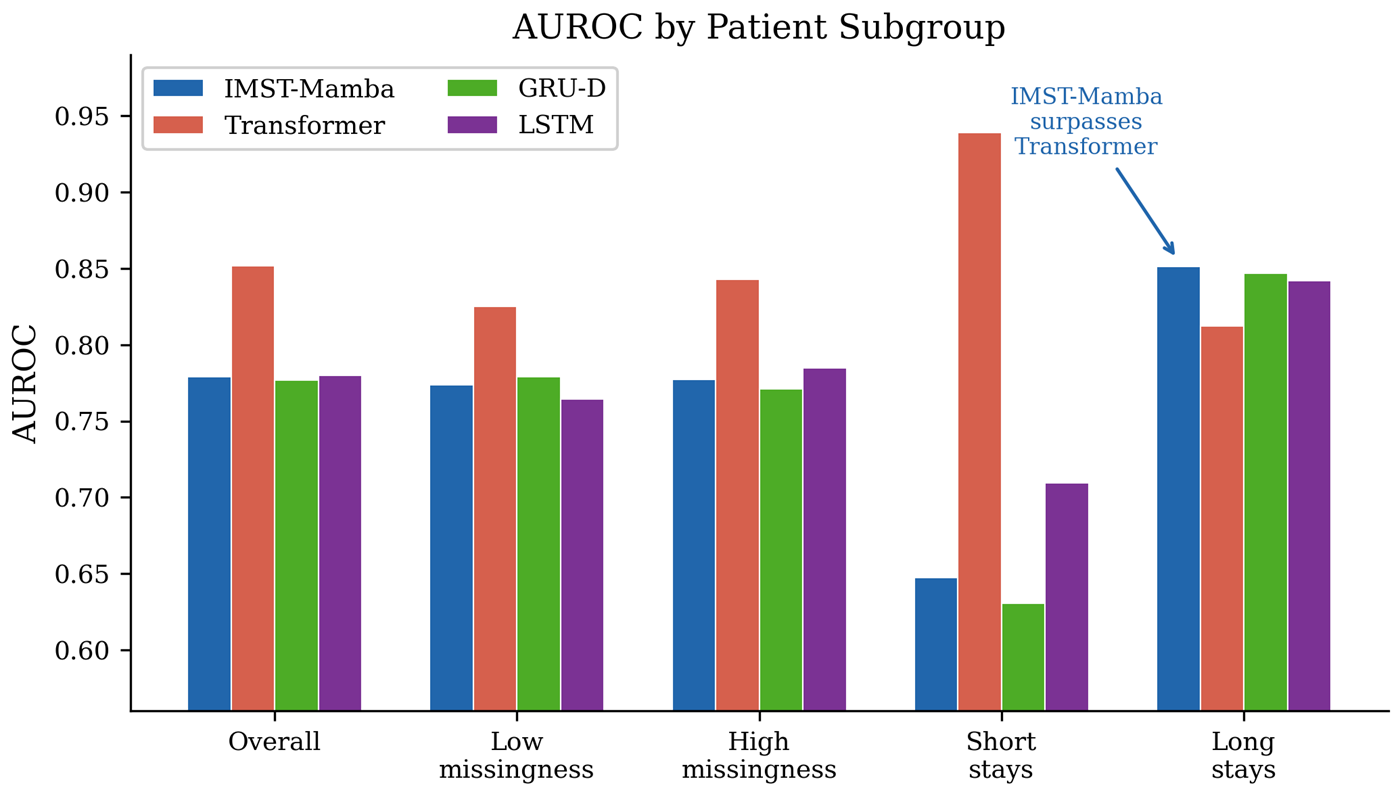
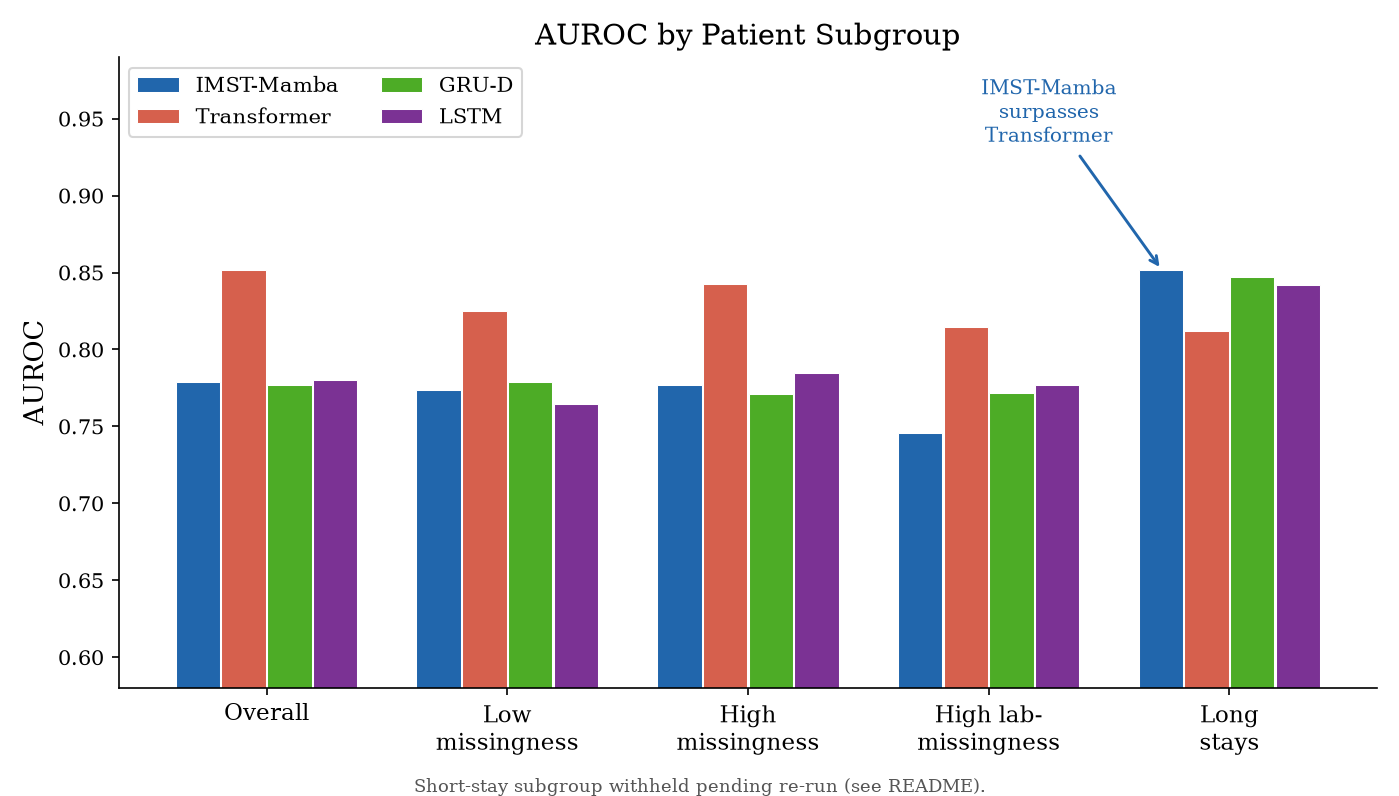
Fix portfolio claims that disagree with the repos
- IMST-Mamba: drop short-stay bars/numbers; the repo README withholds them
  because the draft table duplicated the First 6h row. Regenerate the figure
  from the README's confirmed subgroup values.
- Algo Pipeline: replace stale PR #7 CI-failure text with current state and
  list the hardening PRs merged since.

diff --git a/project-algo.html b/project-algo.html
@@ -60,7 +60,7 @@
 
       <section class="case-section"><span class="label">Output</span><div><h2>파이프라인이 실제로 만들어낸 결과물입니다.</h2><p>아래 두 장은 2026-09-15 실행에서 생성된 실제 카드뉴스입니다. 원문 기사를 수집해 주제를 잡고, 각 Claim을 근거에 연결한 뒤 렌더링까지 자동으로 수행했습니다.</p><div class="algo-output-grid"><figure class="case-shot"><img src="assets/algo/algo-card-cover.jpg?v=1" width="720" height="900" class="zoomable-image" loading="lazy" decoding="async" alt="Algo Pipeline이 생성한 카드뉴스 커버. 제목 &quot;AI 속도 조절, 협약인가&quot;와 발행일 2026.09.15가 표시된 실제 출력물" tabindex="0" role="button" aria-label="Algo Pipeline이 생성한 카드뉴스 커버 확대 보기"><figcaption><span>01 / 수집된 원문 → 생성된 커버</span><strong>Generated</strong></figcaption></figure><figure class="case-shot"><img src="assets/algo/algo-card-evidence.png?v=1" width="720" height="900" class="zoomable-image" loading="lazy" decoding="async" alt="Algo Pipeline이 생성한 콘텐츠 카드. &quot;근거로 확인된 내용&quot; 라벨 아래 검증된 Claim이 표시된 실제 출력물" tabindex="0" role="button" aria-label="Algo Pipeline이 생성한 콘텐츠 카드 확대 보기"><figcaption><span>02 / Claim → 근거로 확인된 내용</span><strong>Fact-checked</strong></figcaption></figure></div><div class="case-note"><strong>이 실행의 기록.</strong> 원문은 The Verge <i>“Is Big Tech’s AI slowdown a safety pact or a cartel?”</i>이며, <code>fact_confirmed 4 · disputed 0 · unverifiable 0</code>, <code>source_lineage_sha256</code> 기록, <code>publish_requested=false</code>로 남았습니다. 생성은 성공했지만 자동 게시는 기본 OFF 경계에서 멈춘 상태입니다.</div></div></section>
 
-      <section class="case-section"><span class="label">Active experiment</span><div><h2>다음 단계는 생성량이 아니라 실제 완성도입니다.</h2><p>PR #7은 Draft에서 Ready for review로 전환됐고, 범위도 표지 문구·CTA 톤·영상 배경(Pexels) 로딩·무영상 카드 정렬·ffmpeg 안정성·의존성 충돌 해결까지 카드뉴스 실사용 품질 전반으로 넓어졌습니다.</p><div class="case-note">아직 main에 병합되지 않았습니다. 현재 CI는 401개 테스트 중 1개(격리 Queue DB 픽스처 누락으로 인한 <code>no such table: queue</code>)에서 실패 중이며, 이 회귀를 먼저 해결한 뒤 병합 여부를 판단합니다.</div><div class="case-links"><a class="text-link" href="https://github.com/YunhuPark/algo-pipeline/pull/7" target="_blank" rel="noopener noreferrer">PR #7 ↗</a></div></div></section>
+      <section class="case-section"><span class="label">Active experiment</span><div><h2>다음 단계는 생성량이 아니라 실제 완성도입니다.</h2><p>PR #7은 Ready for review 상태이며, 표지 문구·CTA 톤·영상 배경(Pexels) 로딩·무영상 카드 정렬·ffmpeg 안정성·의존성 충돌 해결까지 카드뉴스 실사용 품질 전반을 다룹니다. 마지막 CI(2026-09-28)는 통과했고, 아직 main에 병합되지 않았습니다.</p><p>그 사이 main에는 운영 경계를 우회하던 경로를 막는 수정이 계속 병합됐습니다. <code>--threads</code> 모드가 Queue V2와 사람 승인을 우회하던 문제(#12), 주제 출처 가드의 우회 경로(#10), DevOrch 보호 경로 지정(#13), 시작 시 import 순서 오류·테스트 DB 분기·일시적 네트워크 오류 재시도 수정(#14–#17)입니다.</p><div class="case-links"><a class="text-link" href="https://github.com/YunhuPark/algo-pipeline/pull/7" target="_blank" rel="noopener noreferrer">PR #7 ↗</a></div></div></section>
 
       <section class="case-section"><span class="label">Learning</span><div><h2>프롬프트보다 실패를 통제하는 구조가 먼저였습니다.</h2><p>LLM 서비스의 신뢰성은 좋은 프롬프트 하나보다 출처 lineage, 검증 단계, 사람 승인, 재시도 정책과 관측 가능한 상태 전이에서 결정된다는 점을 구현으로 확인했습니다.</p><div class="case-links"><a class="text-link" href="https://algo-site-hazel.vercel.app" target="_blank" rel="noopener noreferrer">Reliability Console ↗</a><a class="text-link" href="https://github.com/YunhuPark/algo-pipeline" target="_blank" rel="noopener noreferrer">GitHub repository ↗</a></div></div></section>
     </section>

diff --git a/project-imst-mamba.html b/project-imst-mamba.html
@@ -110,8 +110,8 @@
             <article><small>Long-stay / IMST-Mamba</small><strong>0.8514</strong><p>복잡한 결측 패턴이 있는 하위집단에서 더 높은 결과를 보였습니다.</p></article>
           </div>
           <p>전체 집단에서는 Transformer가 더 높은 AUROC를 기록했지만 장기 입원 환자 하위집단에서는 IMST-Mamba가 더 높았습니다. 이를 보편적인 모델 우위로 과장하지 않고 특정 결측 패턴을 가진 집단에서의 가능성으로 제한했습니다.</p>
-          <figure class="case-shot case-shot-wide"><div class="shot-scroll"><img src="assets/imst/imst-subgroup-auroc.png?v=1" width="1400" height="796" class="zoomable-image" loading="lazy" decoding="async" alt="하위집단별 AUROC 막대그래프. Overall에서는 Transformer 0.85가 IMST-Mamba 0.78보다 높고, Long stays에서는 IMST-Mamba 0.85가 Transformer 0.81보다 높음. Short stays에서는 IMST-Mamba가 가장 낮음" tabindex="0" role="button" aria-label="하위집단별 AUROC 비교 그래프 확대 보기"></div><figcaption><span>Subgroup AUROC · IMST-Mamba vs Transformer · GRU-D · LSTM</span><strong>Long stays only</strong></figcaption></figure>
-          <div class="case-note"><strong>불리한 결과도 함께 둡니다.</strong> Short-stay 하위집단에서는 IMST-Mamba가 0.647로 Transformer 0.939보다 크게 낮습니다. 결측 이력이 짧아 staleness 신호가 거의 없는 구간에서는 이 설계가 오히려 불리하다는 뜻이며, 그래프에서 가리지 않았습니다.</div>
+          <figure class="case-shot case-shot-wide"><div class="shot-scroll"><img src="assets/imst/imst-subgroup-auroc.png?v=2" width="1400" height="796" class="zoomable-image" loading="lazy" decoding="async" alt="하위집단별 AUROC 막대그래프. Overall에서는 Transformer 0.85가 IMST-Mamba 0.78보다 높고, 결측이 적거나 많은 하위집단에서도 Transformer가 더 높음. Long stays에서만 IMST-Mamba 0.85가 Transformer 0.81보다 높음. Short stays는 재실행 전이라 제외" tabindex="0" role="button" aria-label="하위집단별 AUROC 비교 그래프 확대 보기"></div><figcaption><span>Subgroup AUROC · IMST-Mamba vs Transformer · GRU-D · LSTM</span><strong>Long stays only</strong></figcaption></figure>
+          <div class="case-note"><strong>싣지 않은 결과.</strong> Short-stay 하위집단은 수치를 싣지 않았습니다. 논문 초안의 표에서 Short stays와 First 6h 행이 네 모델 모두 같은 값으로 적혀 있는 것을 발견해, 재실행으로 확인하기 전까지 보류했습니다. 확인되지 않은 수치를 그래프에 두지 않기 위한 선택입니다.</div>
         </div>
       </section>
 
